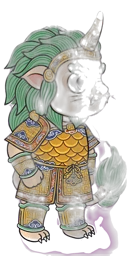
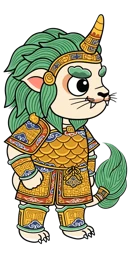
fix(assets): 배경 제거가 갉아먹은 스프라이트 6개 복구 + 알파 무결성 게이트
rembg 는 "무엇이 주인공인가"를 추측하는데, 민화풍 캐릭터의 아이보리 얼굴을
순백 배경과 구분하지 못해 지웠다. 게임 안 128px 에서는 "밝은 얼굴"로 보여
콘솔 에러도 테스트 실패도 없이 통과했고, 인장으로 키우자 드러났다.

- 복구: haetae(반투명 69%→0.1%) · e_shield(불투명 6.6%, 몸통·등껍질 통째 삭제)
        e_boss(관모) · samjogo(왼쪽 날개) · castle_foe(오른쪽 절반) · 인장
- tools/cutout-flat.mjs: rembg 대신 먹선을 못 넘는 flood fill 컷아웃.
  캐릭터 안쪽은 닫힌 외곽선으로 보호되므로 얼굴이 순백이어도 구조적으로 안 지워진다.
  배경색은 네 모서리에서 읽는다(Meta 가 순백 지시를 무시하고 마젠타로 뽑은 사례 대응).
- tools/asset-check.mjs: 구멍·반투명·대량삭제 3종을 따로 잰다. 반투명만 보면
  90% 지워진 스프라이트를 오히려 '깨끗하다'고 판정한다(e_shield 실측). npm run check 에 편입.
- tools/build-icons.mjs: 파비콘 5종을 인장 1장에서 재생성(32·48px 은 얼굴 크롭).
- build-assets 에 crest 그룹 추가 — 없으면 매니페스트 재작성 때 인장이 조용히 사라진다.

인장의 갈색 주둥이는 AI 가 지어낸 것이었다. 유령이 된 원본을 레퍼런스로 줬기 때문.

diff --git a/assets/CREDITS.md b/assets/CREDITS.md
@@ -16,6 +16,7 @@
 | castle_foe | castle | ai | Meta AI 생성 · 프로젝트 내 사용. 핵심 IP는 상용화 전 인간 디자이너 최종화 필요 |
 | cheongryong | unit | ai | Meta AI 생성 · 프로젝트 내 사용. 핵심 IP는 상용화 전 인간 디자이너 최종화 필요 |
 | chorong | unit | ai | Meta AI 생성 · 프로젝트 내 사용. 핵심 IP는 상용화 전 인간 디자이너 최종화 필요 |
+| crest_haetae | ui | ai | Meta AI 생성 · 프로젝트 내 사용. 핵심 IP는 상용화 전 인간 디자이너 최종화 필요 |
 | dokkabi | unit | ai | Meta AI 생성 · 프로젝트 내 사용. 핵심 IP는 상용화 전 인간 디자이너 최종화 필요 |
 | dokkabidae | unit | ai | Meta AI 생성 · 프로젝트 내 사용. 핵심 IP는 상용화 전 인간 디자이너 최종화 필요 |
 | e_arch | enemy | ai | Meta AI 생성 · 프로젝트 내 사용. 핵심 IP는 상용화 전 인간 디자이너 최종화 필요 |
